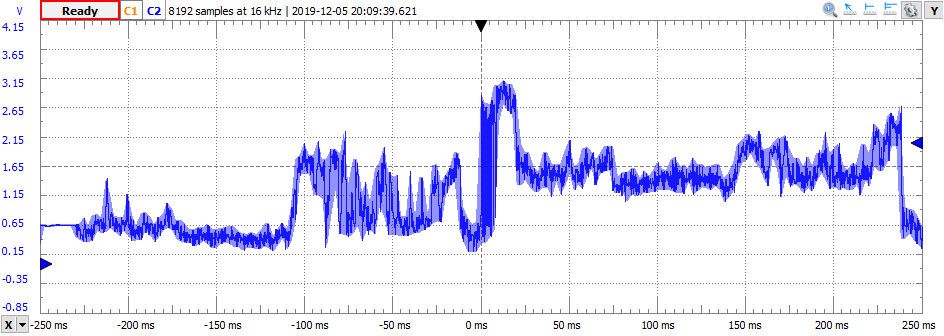
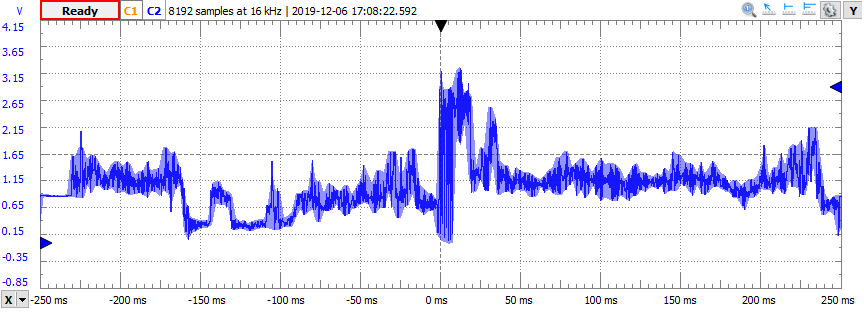
Fixed filter cutoffs to actually reject carrier and image signal - Fixes striping

diff --git a/Final Project/workspace/APT_Decoder/src/sampling.c b/Final Project/workspace/APT_Decoder/src/sampling.c
@@ -10,26 +10,26 @@
 #include <stdlib.h>
 
 // 8th order elliptic LPF for AM demodulation
-const float FILT_NEXT_SAMP_COEFF = 0.000788576274188f;
+const float FILT_NEXT_SAMP_COEFF = 0.000678838494336f;
 const float FILT_SAMP_COEFF[] = {
-		  -0.003681047802787f,
-		   0.008688847522356f,
-		  -0.013434534483767f,
-		   0.015369555462130f,
-		  -0.013434534483767f,
-		   0.008688847522356f,
-		  -0.003681047802787f,
-		   0.000788576274188f
+		  -0.003534196288993f,
+		   0.008994777919394f,
+		  -0.014666976055880f,
+		   0.017088053114672f,
+		  -0.014666976055880f,
+		   0.008994777919394f,
+		  -0.003534196288993f,
+		   0.000678838494336f
 };
 const float FILT_FILT_COEFF[] = {
-		   7.032656532642950f,
-		 -22.077617664818479f,
-		  40.358204470609053f,
-		 -46.946747062071466f,
-		  35.565277845099004f,
-		 -17.129534031704015f,
-		   4.794938654666479f,
-		  -0.597277507633022f
+		   7.200781848522088f,
+		 -23.028289310289551f,
+		  42.687438666850078f,
+		 -50.139405828371544f,
+		  38.197599092024909f,
+		 -18.427485269037746f,
+		   5.146330495211290f,
+		  -0.637004588053818f
 };
 
 float samp_hist[8] = {0};

diff --git a/Final Project/DSP Testing/AMDemodulation.m b/Final Project/DSP Testing/AMDemodulation.m
@@ -10,7 +10,7 @@ oversample = 8;
 Fs = 4160*oversample;
 
 E =  designfilt('lowpassiir', 'DesignMethod', 'ellip', ...
-        'PassbandFrequency',2400, 'StopbandFrequency',3000, ...
+        'PassbandFrequency',2100, 'StopbandFrequency',2700, ...
         'PassbandRipple',0.5,'StopbandAttenuation',20+20*log10(256), ...
         'SampleRate',Fs);
 
@@ -18,10 +18,10 @@ E =  designfilt('lowpassiir', 'DesignMethod', 'ellip', ...
 %fvtool(E);
 %grpdelay(E);
 
-forder = filtord(E); % Display filter order
+forder = filtord(E) % Display filter order
 [nc,dc] = tf(E);
-%nc'
-%-dc'
+nc'
+-dc'
 %[z,p,k] = zpk(E);
 %zpk(z,p,k,1/Fs)
 
@@ -74,6 +74,7 @@ img = reshape(sum(Y(image_index_set),3),2080,[])';
 imax = max(img(:));
 imin = min(img(:));
 img = (img-imin)/(imax-imin);
+img = floor(img*256)/256;
 figure(5);
 imshow(img);
 imwrite(img,'Full_Image.png');
